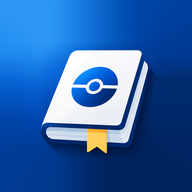
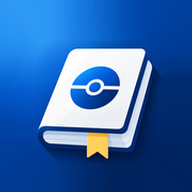
Add files via upload

diff --git a/sw.js b/sw.js
@@ -1,4 +1,4 @@
-const CACHE_NAME='sleep-odds-shell-v1-1-24';
+const CACHE_NAME='sleep-odds-shell-v1-1-25';
 const APP_FILES=[
   './','./index.html','./styles.css','./app.js','./calculator.mjs',
   './calc-worker.js','./nature-selection.mjs','./manifest.webmanifest','./assets/favicon-32.png','./assets/apple-touch-icon.png',

diff --git a/CHANGELOG_v1.1.25.md b/CHANGELOG_v1.1.25.md
@@ -1,0 +1,4 @@
+# v1.1.25
+- Pixel向けマスク対応アイコンの本体をさらに拡大（約20%相当）
+- icon-maskable-192.png / icon-maskable-512.png を更新
+- sw.js のキャッシュ名を sleep-odds-shell-v1-1-25 へ更新
